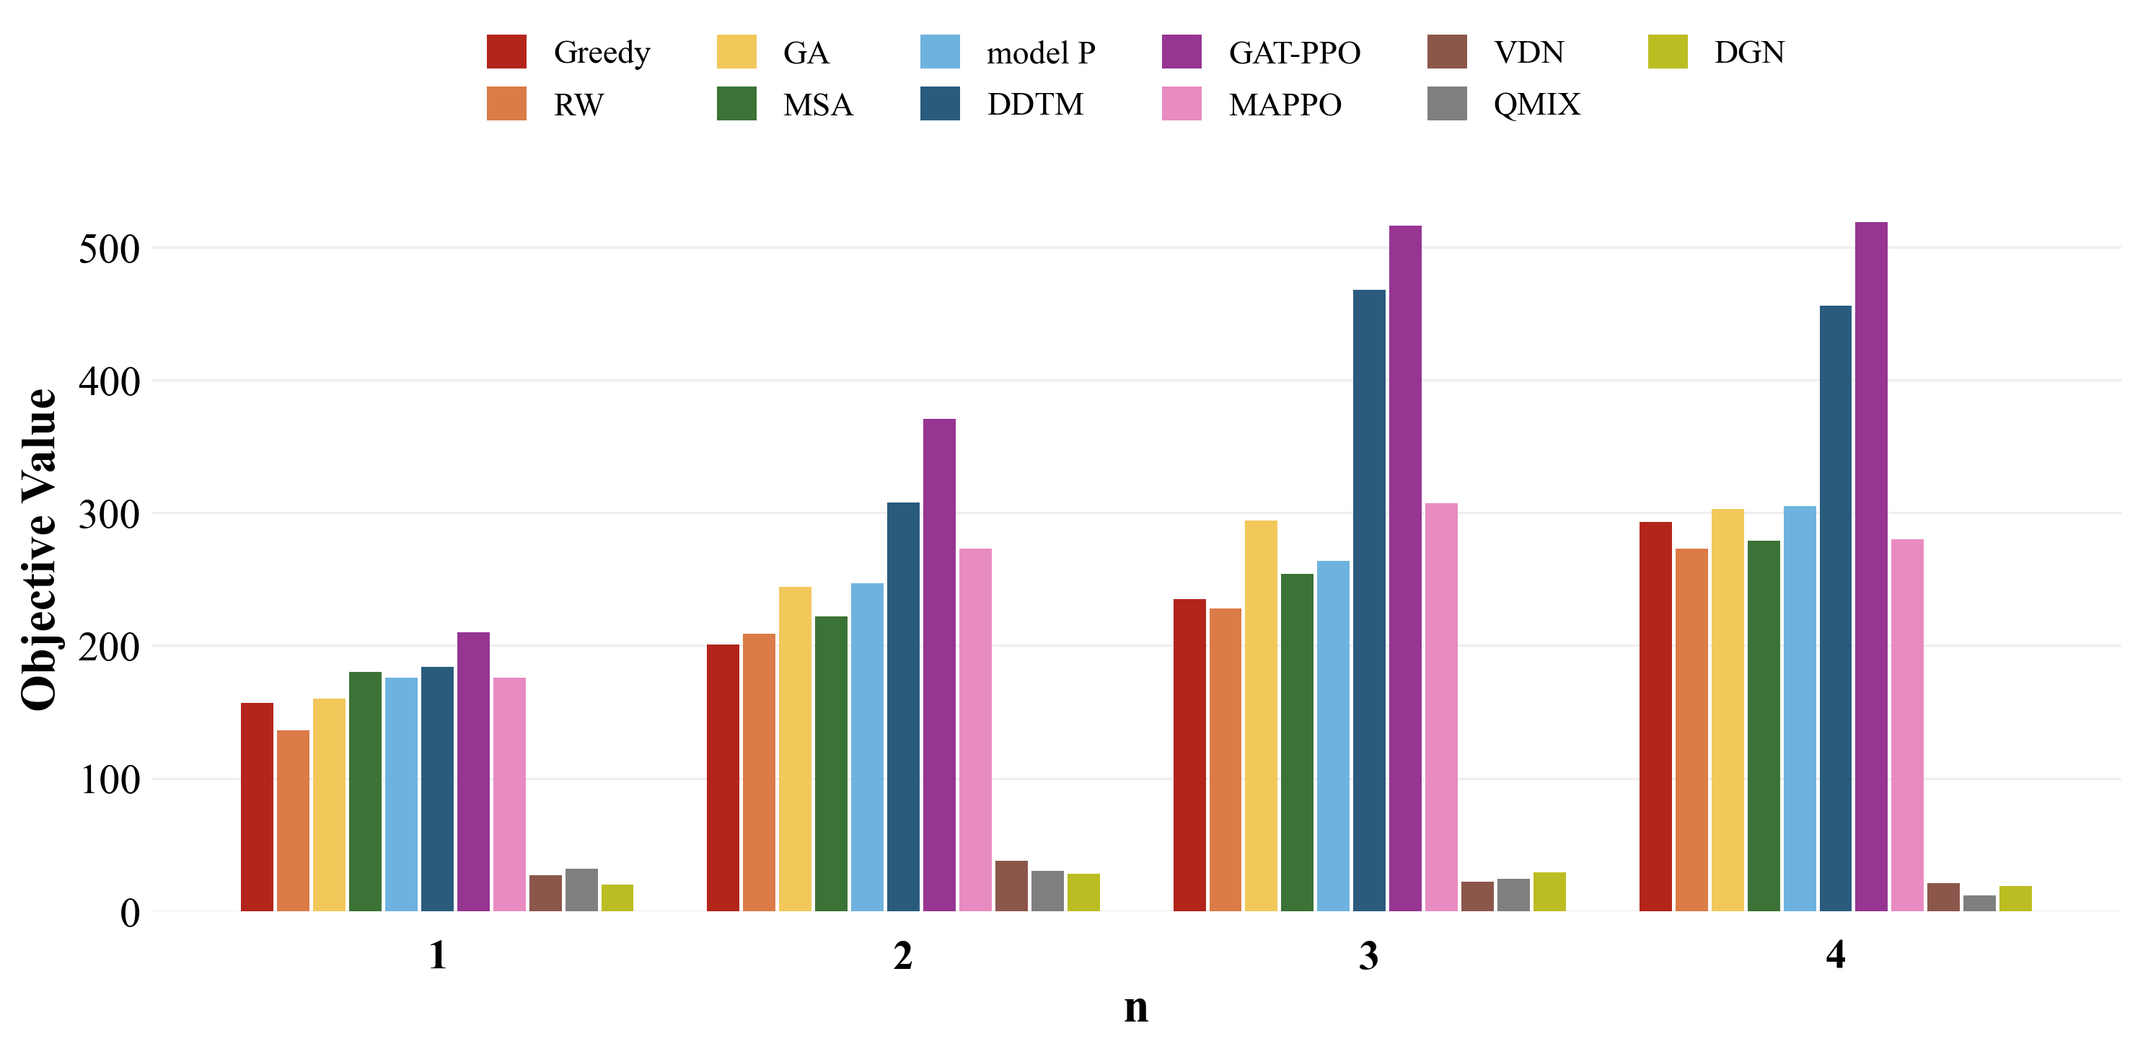
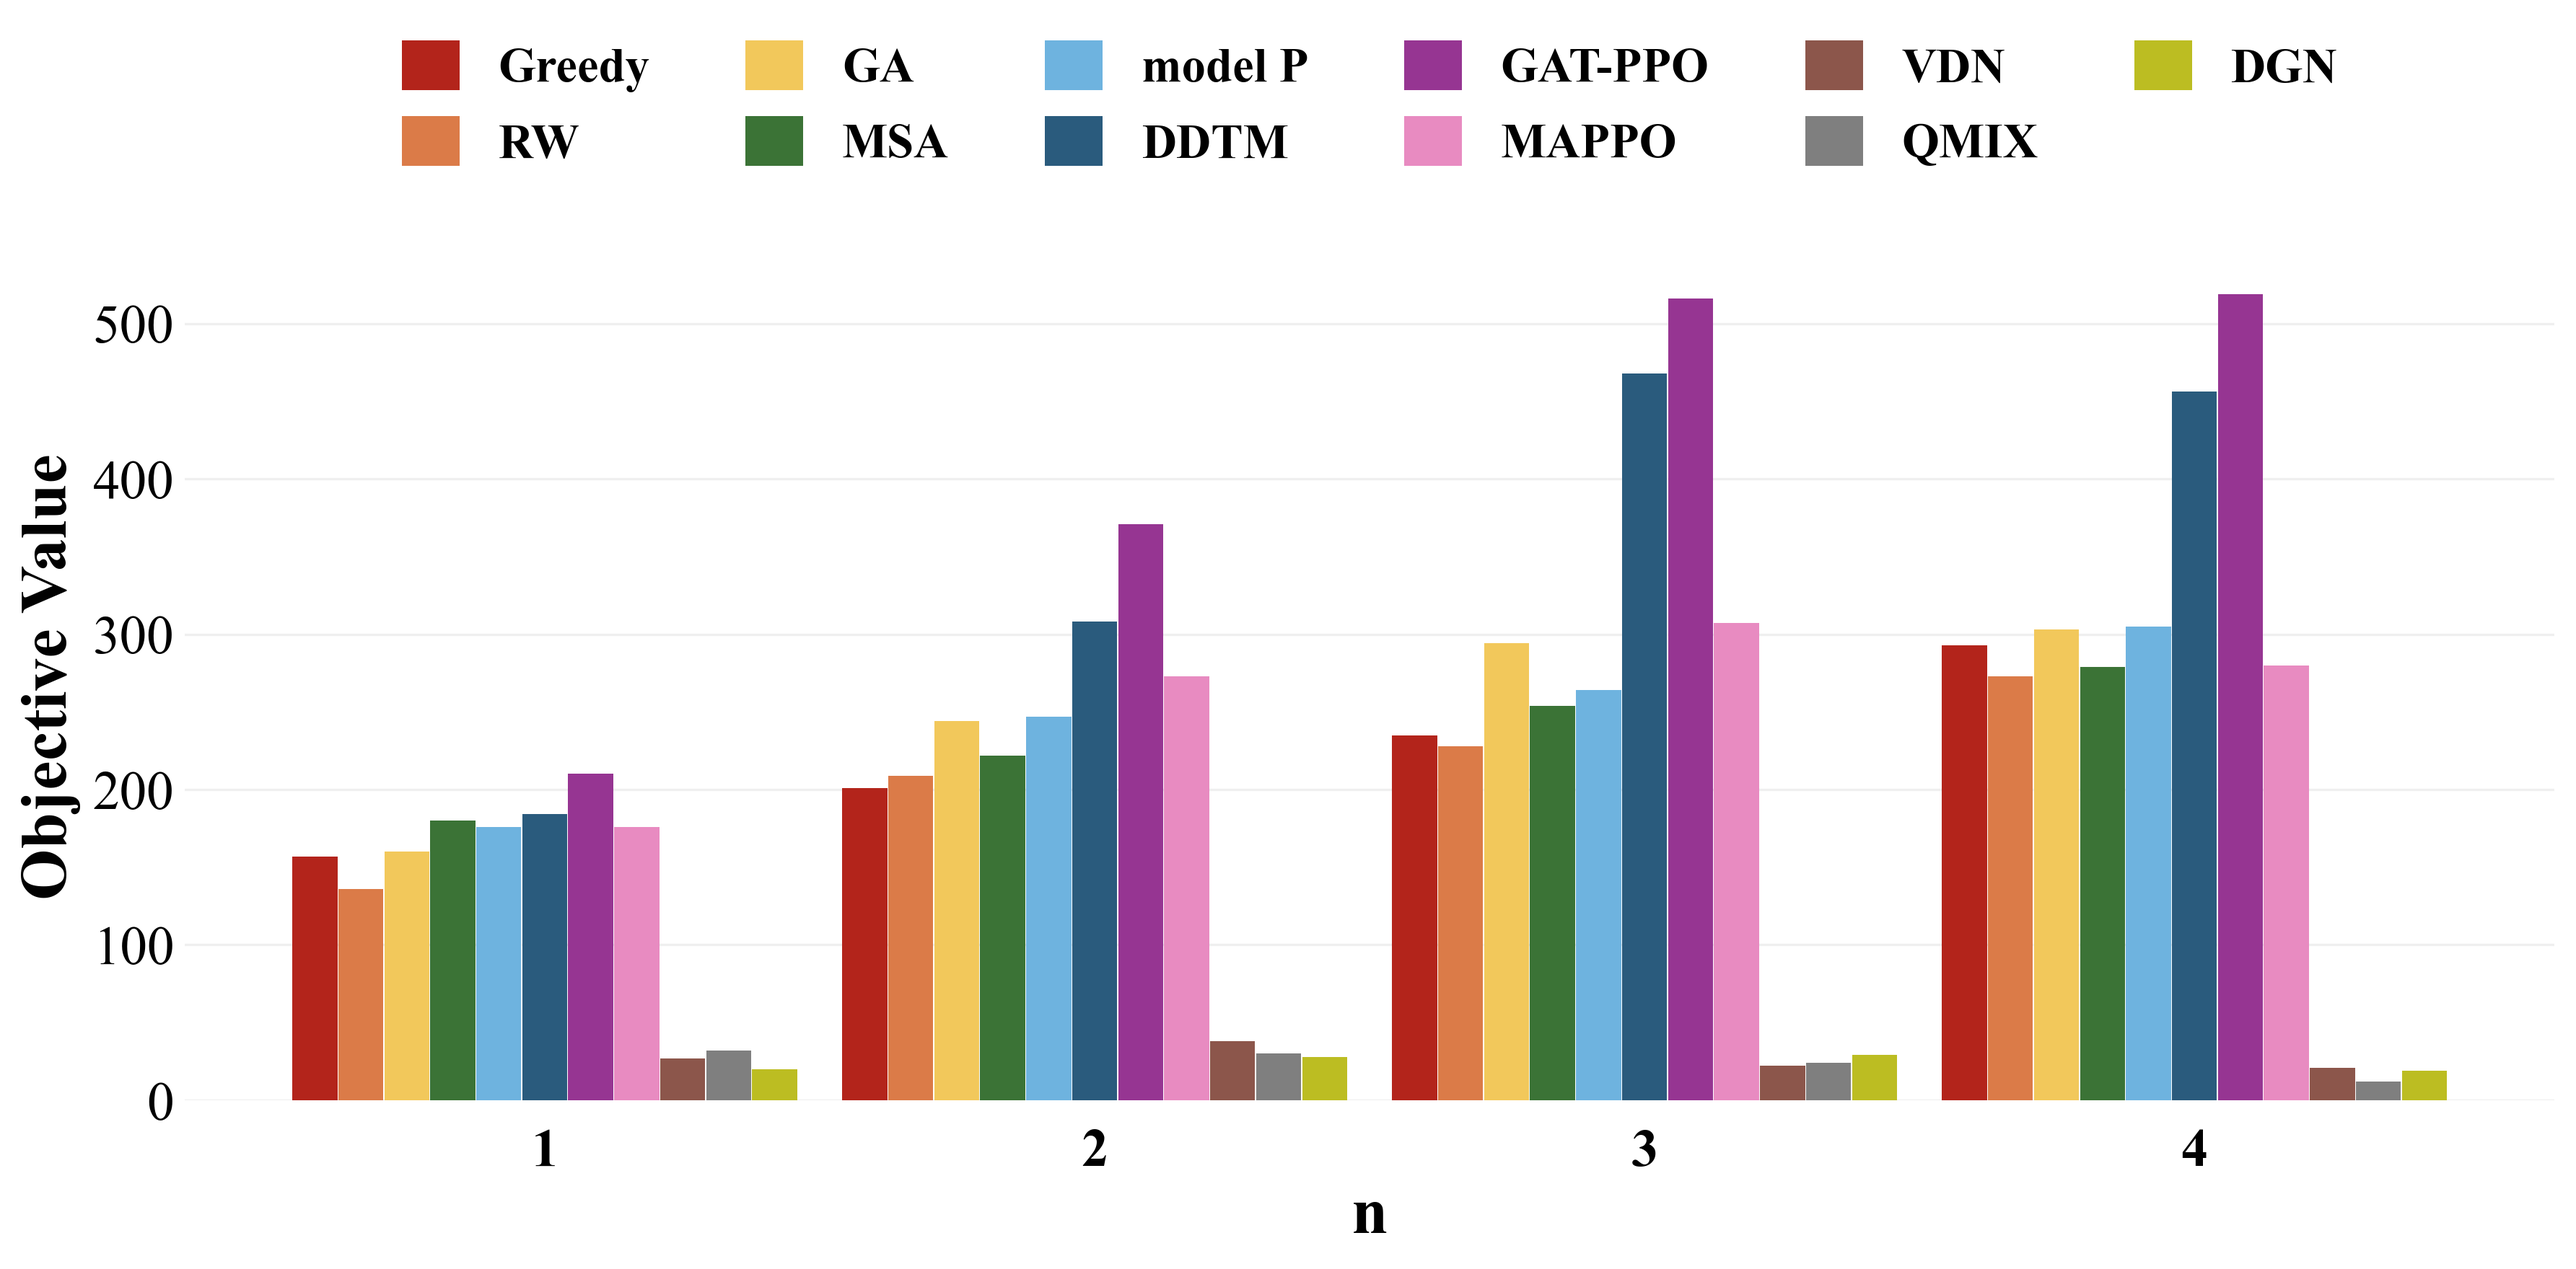
feat: upgrade LaTeX table generator for two-column spanning and custom captions

diff --git a/plot_all_figures.py b/plot_all_figures.py
@@ -4,7 +4,6 @@ import matplotlib.pyplot as plt
 import numpy as np
 
 def generate_academic_plots(json_filepath, output_dir="plots"):
-    # 確保輸出資料夾存在
     if not os.path.exists(output_dir):
         os.makedirs(output_dir)
 
@@ -18,24 +17,22 @@ def generate_academic_plots(json_filepath, output_dir="plots"):
 
     # 定義 11 種演算法的配色盤
     color_map = {
-        'Greedy': '#b3241b',   # 深紅
-        'RW': '#db7b48',       # 橘色
-        'GA': '#f2c85b',       # 黃色
-        'MSA': '#3b7336',      # 墨綠
-        'model P': '#6eb3df',  # 淺藍
-        'DDTM': '#2a5b7d',     # 深藍
-        'GAT-PPO': '#963592',  # 紫色 (主角標誌色)
-        'MAPPO': '#e88bc1',    # 粉紅
-        'VDN': '#8c564b',      # 棕色
-        'QMIX': '#7f7f7f',     # 灰色
-        'DGN': '#bcbd22'       # 橄欖綠
+        'Greedy': '#b3241b',   
+        'RW': '#db7b48',       
+        'GA': '#f2c85b',       
+        'MSA': '#3b7336',      
+        'model P': '#6eb3df',  
+        'DDTM': '#2a5b7d',     
+        'GAT-PPO': '#963592',  
+        'MAPPO': '#e88bc1',    
+        'VDN': '#8c564b',      
+        'QMIX': '#7f7f7f',     
+        'DGN': '#bcbd22'       
     }
 
-    # 讀取實驗數據 JSON 檔案
     with open(json_filepath, 'r', encoding='utf-8') as f:
         config = json.load(f)
 
-    # 迴圈處理每一張圖
     for fig_data in config['figures']:
         saved_file_name = fig_data['saved_file_name']
         x_label = fig_data['horizontal_axis_title']
@@ -45,20 +42,20 @@ def generate_academic_plots(json_filepath, output_dir="plots"):
 
         print(f"正在繪製圖表: {saved_file_name} ...")
 
-        # 建立畫布
-        fig, ax = plt.subplots(figsize=(10, 5), dpi=300)
+        fig, ax = plt.subplots(figsize=(12, 6), dpi=300)
 
         # 動態計算柱子寬度與偏移量
         total_algs = len(data_dict)
-        # 總共佔用空間的 85%，剩下的 15% 作為 group 之間間距
-        total_width = 0.85 
+        
+        total_width = 0.92 
         bar_width = total_width / total_algs
         offsets = np.linspace(-total_width/2 + bar_width/2, total_width/2 - bar_width/2, total_algs)
 
         # 依序畫出每個演算法的柱狀圖
         for i, (alg_name, alg_values) in enumerate(data_dict.items()):
-            color = color_map.get(alg_name, '#333333') # 若找不到顏色預設用深灰
-            ax.bar(x_ticks + offsets[i], alg_values, width=bar_width*0.9, 
+            color = color_map.get(alg_name, '#333333') 
+            
+            ax.bar(x_ticks + offsets[i], alg_values, width=bar_width*0.98, 
                    label=alg_name, color=color, edgecolor='none', zorder=3)
 
         # 移除外框
@@ -70,26 +67,28 @@ def generate_academic_plots(json_filepath, output_dir="plots"):
         # 設定網格與坐標軸
         ax.xaxis.grid(False) 
         ax.set_xticks(x_ticks)
-        ax.set_xticklabels([str(n) for n in x_ticks], fontsize=14, fontweight='bold')
-        ax.set_xlabel(x_label, fontsize=16, fontweight='bold')
         
-        ax.set_ylabel(y_label, fontsize=16, fontweight='bold')
-        ax.tick_params(axis='y', labelsize=14, length=0)
+        # 保持放大的字體設定
+        ax.set_xticklabels([str(n) for n in x_ticks], fontsize=18, fontweight='bold')
+        ax.set_xlabel(x_label, fontsize=22, fontweight='bold')
+        ax.set_ylabel(y_label, fontsize=22, fontweight='bold')
+        
+        ax.tick_params(axis='y', labelsize=18, length=0)
         ax.tick_params(axis='x', length=0, pad=10)
 
-        # 設定圖例
+        # 圖例位置設定
         ax.legend(loc='lower center', bbox_to_anchor=(0.5, 1.05), ncol=6, 
-                  frameon=False, fontsize=11, handlelength=1.2, handleheight=1.2)
+                  frameon=False, handlelength=1.2, handleheight=1.2,
+                  prop={'size': 16, 'weight': 'bold'})
 
         # 儲存與清理
         plt.tight_layout()
         output_path = os.path.join(output_dir, f"{saved_file_name}.png")
         plt.savefig(output_path, bbox_inches='tight')
         
-        # 每畫完一張圖就 close
         plt.close(fig) 
 
-    print(f"\n 所有圖表皆已匯出至 '{output_dir}/' 資料夾中。")
+    print(f"\n所有圖表皆已匯出至 '{output_dir}/' 資料夾中。")
 
 if __name__ == "__main__":
     generate_academic_plots("experiments_data.json", output_dir="figures")

diff --git a/json_to_table_latex.py b/json_to_table_latex.py
@@ -1,0 +1,93 @@
+import json
+import os
+
+def generate_latex_from_json(json_filepath, output_dir="tables"):
+    # 確認輸出資料夾是否存在，若無則自動建立
+    if not os.path.exists(output_dir):
+        os.makedirs(output_dir)
+        print(f"已建立資料夾: {output_dir}/")
+
+    # 讀取 json 檔案
+    with open(json_filepath, 'r', encoding='utf-8') as f:
+        data = json.load(f)
+        
+    for table in data["tables"]:
+        filename = table["saved_file_name"]
+        caption_text = table["caption"]
+        col_groups = table["column_name"]
+        rows = table["row_name"]
+        row_title = table["row_title"]
+        data_dict = table["data"]
+        
+        # 動態獲取演算法名單與維度
+        algos = list(data_dict.keys())
+        num_col_groups = len(col_groups)
+        num_algos = len(algos)
+        total_data_cols = num_col_groups * num_algos
+        
+        # 建立欄位格式 (例如: |c|cccccc|cccccc|...)
+        col_format = "|c|" + "|".join(["c" * num_algos for _ in range(num_col_groups)]) + "|"
+        
+        latex = []
+        # table* 讓表格跨越雙欄
+        latex.append("\\begin{table}[H]")
+        latex.append("\\centering")
+        
+        # 縮小欄位間的空白 (預設是 6pt，改成 3pt 或 4pt)
+        # 把空間還給文字，讓 \resizebox 縮放時文字會更大
+        latex.append("\\setlength{\\tabcolsep}{4pt}")
+        
+        # 處理多欄位超寬表格，自動等比例縮放至頁面寬度
+        latex.append("\\resizebox{\\textwidth}{!}{")
+        latex.append(f"\\begin{{tabular}}{{{col_format}}}")
+        latex.append("\\hline")
+        
+        # 建立第一層標題 (Dataset 名稱)
+        header1 = f"\\multirow{{2}}{{*}}{{\\textbf{{{row_title}}}}}"
+        for cg in col_groups:
+            safe_cg = cg.replace("_", "\\_")
+            header1 += f" & \\multicolumn{{{num_algos}}}{{c|}}{{\\textbf{{{safe_cg}}}}}"
+        header1 += f" \\\\ \\cline{{2-{total_data_cols + 1}}}"
+        latex.append(header1)
+        
+        # 建立第二層標題 (演算法名稱)
+        header2 = ""
+        for _ in range(num_col_groups):
+            for algo in algos:
+                safe_algo = algo.replace("_", "\\_")
+                header2 += f" & \\textbf{{{safe_algo}}}"
+        header2 += " \\\\ \\hline"
+        latex.append(header2)
+        
+        # 動態填入數據
+        for i, row_val in enumerate(rows):
+            row_str = f"{row_val}"
+            for j in range(num_col_groups):
+                for algo in algos:
+                    try:
+                        val = data_dict[algo][i][j]
+                        row_str += f" & {val:.2f}"
+                    except IndexError:
+                        row_str += " & -"
+            row_str += " \\\\"
+            latex.append(row_str)
+            
+        latex.append("\\hline")
+        latex.append("\\end{tabular}")
+        latex.append("}")
+        
+        # 加入 json 中指定的 caption 與自動 label
+        latex.append(f"\\caption*{{{caption_text}}}")
+        latex.append(f"\\label{{tab:{filename}}}")
+        
+        latex.append("\\end{table}")
+        
+        # 將結果寫入 .tex 檔案
+        output_filepath = os.path.join(output_dir, f"{filename}.tex")
+        with open(output_filepath, 'w', encoding='utf-8') as out_f:
+            out_f.write("\n".join(latex) + "\n")
+            
+        print(f"生成 LaTeX 表格並儲存至: {output_filepath}")
+
+if __name__ == "__main__":
+    generate_latex_from_json("experiments_data.json")

diff --git a/tables/er_graphs_training_time.tex b/tables/er_graphs_training_time.tex
@@ -1,0 +1,18 @@
+\begin{table}[H]
+\centering
+\setlength{\tabcolsep}{4pt}
+\resizebox{\textwidth}{!}{
+\begin{tabular}{|c|cccccc|cccccc|cccccc|cccccc|}
+\hline
+\multirow{2}{*}{\textbf{n}} & \multicolumn{6}{c|}{\textbf{ER\_50}} & \multicolumn{6}{c|}{\textbf{ER\_100}} & \multicolumn{6}{c|}{\textbf{ER\_150}} & \multicolumn{6}{c|}{\textbf{ER\_200}} \\ \cline{2-25}
+ & \textbf{DDTM} & \textbf{GAT-PPO} & \textbf{MAPPO} & \textbf{VDN} & \textbf{QMIX} & \textbf{DGN} & \textbf{DDTM} & \textbf{GAT-PPO} & \textbf{MAPPO} & \textbf{VDN} & \textbf{QMIX} & \textbf{DGN} & \textbf{DDTM} & \textbf{GAT-PPO} & \textbf{MAPPO} & \textbf{VDN} & \textbf{QMIX} & \textbf{DGN} & \textbf{DDTM} & \textbf{GAT-PPO} & \textbf{MAPPO} & \textbf{VDN} & \textbf{QMIX} & \textbf{DGN} \\ \hline
+1 & 14.19 & 14.54 & 3.30 & 4.17 & 9.15 & 6.87 & 20.78 & 49.82 & 4.63 & 4.42 & 10.02 & 12.78 & 30.79 & 134.14 & 4.86 & 7.90 & 12.34 & 12.13 & 38.00 & 330.10 & 10.60 & 15.72 & 24.43 & 21.06 \\
+2 & 26.49 & 9.85 & 2.07 & 1.54 & 2.60 & 5.28 & 32.32 & 33.38 & 2.88 & 2.92 & 4.97 & 5.19 & 46.59 & 152.24 & 4.63 & 7.37 & 13.60 & 10.99 & 57.68 & 329.45 & 10.15 & 29.27 & 22.63 & 24.57 \\
+3 & 45.84 & 11.99 & 1.42 & 1.54 & 3.27 & 8.43 & 45.34 & 34.68 & 2.43 & 3.61 & 6.89 & 6.29 & 61.51 & 122.16 & 4.57 & 7.24 & 14.42 & 14.05 & 78.48 & 324.22 & 10.18 & 23.72 & 25.28 & 24.87 \\
+4 & 68.63 & 13.98 & 1.35 & 1.51 & 3.78 & 3.91 & 74.57 & 25.77 & 2.22 & 2.66 & 4.05 & 4.88 & 81.38 & 95.49 & 3.93 & 5.07 & 9.85 & 11.63 & 94.26 & 257.43 & 8.50 & 13.05 & 25.68 & 36.86 \\
+\hline
+\end{tabular}
+}
+\caption*{TABLE II: Training time (in seconds) of GAT-PPO and SOTA algorithms on ER graphs of different sizes (50 episodes).}
+\label{tab:er_graphs_training_time}
+\end{table}

diff --git a/tables/real_road_networks_training_time.tex b/tables/real_road_networks_training_time.tex
@@ -1,0 +1,18 @@
+\begin{table}[H]
+\centering
+\setlength{\tabcolsep}{4pt}
+\resizebox{\textwidth}{!}{
+\begin{tabular}{|c|cccccc|cccccc|cccccc|}
+\hline
+\multirow{2}{*}{\textbf{n}} & \multicolumn{6}{c|}{\textbf{Euroroad}} & \multicolumn{6}{c|}{\textbf{Minnesota}} & \multicolumn{6}{c|}{\textbf{Taichung}} \\ \cline{2-19}
+ & \textbf{DDTM} & \textbf{GAT-PPO} & \textbf{MAPPO} & \textbf{VDN} & \textbf{QMIX} & \textbf{DGN} & \textbf{DDTM} & \textbf{GAT-PPO} & \textbf{MAPPO} & \textbf{VDN} & \textbf{QMIX} & \textbf{DGN} & \textbf{DDTM} & \textbf{GAT-PPO} & \textbf{MAPPO} & \textbf{VDN} & \textbf{QMIX} & \textbf{DGN} \\ \hline
+1 & 1135.40 & 163.33 & 408.38 & 633.54 & 652.92 & 498.20 & 1635.61 & 786.34 & 435.61 & 1025.51 & 26814.59 & 505.72 & 30945.21 & 18119.64 & 9270.32 & 11732.10 & 233015.24 & 11990.88 \\
+2 & 1247.92 & 167.57 & 365.61 & 547.72 & 661.10 & 494.73 & 1690.79 & 478.63 & 288.20 & 701.02 & 15077.13 & 340.35 & 31450.34 & 15678.97 & 8693.46 & 10330.25 & 206012.19 & 9382.78 \\
+3 & 1360.53 & 168.84 & 364.46 & 615.68 & 617.99 & 518.12 & 1731.87 & 576.21 & 210.29 & 666.68 & 13947.05 & 247.70 & 32809.23 & 14898.76 & 8256.95 & 10225.81 & 198017.45 & 9271.67 \\
+4 & 1464.11 & 131.03 & 294.01 & 356.97 & 441.47 & 368.75 & 1803.68 & 490.18 & 181.55 & 508.86 & 6430.90 & 274.52 & 40024.20 & 13133.19 & 7785.26 & 9098.16 & 194230.56 & 8538.56 \\
+\hline
+\end{tabular}
+}
+\caption*{TABLE III: Training time (in seconds) of GAT-PPO and SOTA algorithms on real road networks (100 episodes).}
+\label{tab:real_road_networks_training_time}
+\end{table}
